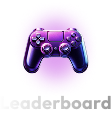
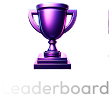
added

diff --git a/src/components/BottomNav.jsx b/src/components/BottomNav.jsx
@@ -2,6 +2,7 @@ import React, { useState, useRef, useEffect } from 'react';
 import { useNavigate } from 'react-router-dom';
 import { useAccount, useDisconnect } from 'wagmi';
 import HomeIcon from '../assets/Home-icon.png';
+import GameIcon from '../assets/Game.png';
 import LeaderboardIcon from '../assets/Leaderboard.png';
 import ProfileIcon from '../assets/Profile.png';
 import WalletIcon from '../assets/Wallet.png';
@@ -38,23 +39,23 @@ const BottomNav = () => {
 
   const handleNavClick = (index) => {
     switch(index) {
-      case 0: // First icon (Home)
-        navigate('/game');
-        setShowWalletInfo(false);
-        break;
-      case 0:
+      case 0: // Home
         setShowWalletInfo(false);
         navigate('/');
         break;
-      case 1:
+      case 1: // Game
+        setShowWalletInfo(false);
+        navigate('/game');
+        break;
+      case 2: // Leaderboard
         setShowWalletInfo(false);
         navigate('/leaderboard');
         break;
-      case 2:
+      case 3: // Profile
         setShowWalletInfo(false);
         navigate('/profile');
         break;
-      case 3:
+      case 4: // Wallet
         setShowWalletInfo(!showWalletInfo);
         break;
       default:
@@ -76,15 +77,18 @@ const BottomNav = () => {
         <img src={HomeIcon} alt="Home" className="icon" />
       </button>
       <button className="nav-icon" onClick={() => handleNavClick(1)}>
-        <img src={LeaderboardIcon} alt="Leaderboard" className="icon" />
+        <img src={GameIcon} alt="Game" className="icon" />
       </button>
       <button className="nav-icon" onClick={() => handleNavClick(2)}>
+        <img src={LeaderboardIcon} alt="Leaderboard" className="icon" />
+      </button>
+      <button className="nav-icon" onClick={() => handleNavClick(3)}>
         <img src={ProfileIcon} alt="Profile" className="icon" />
       </button>
       <div className="wallet-icon-container" ref={popupRef}>
         <button 
           className={`nav-icon ${showWalletInfo ? 'active' : ''}`} 
-          onClick={() => handleNavClick(3)}
+          onClick={() => handleNavClick(4)}
         >
           <img src={WalletIcon} alt="Wallet" className="icon" />
         </button>

diff --git a/src/components/BottomNav.css b/src/components/BottomNav.css
@@ -3,7 +3,7 @@
   bottom: 10px;
   left: 50%;
   transform: translateX(-50%);
-  width: 25%;
+  width: 30%;
   min-width: 300px;
   height: 80px;
   background: #1E1E1E;
